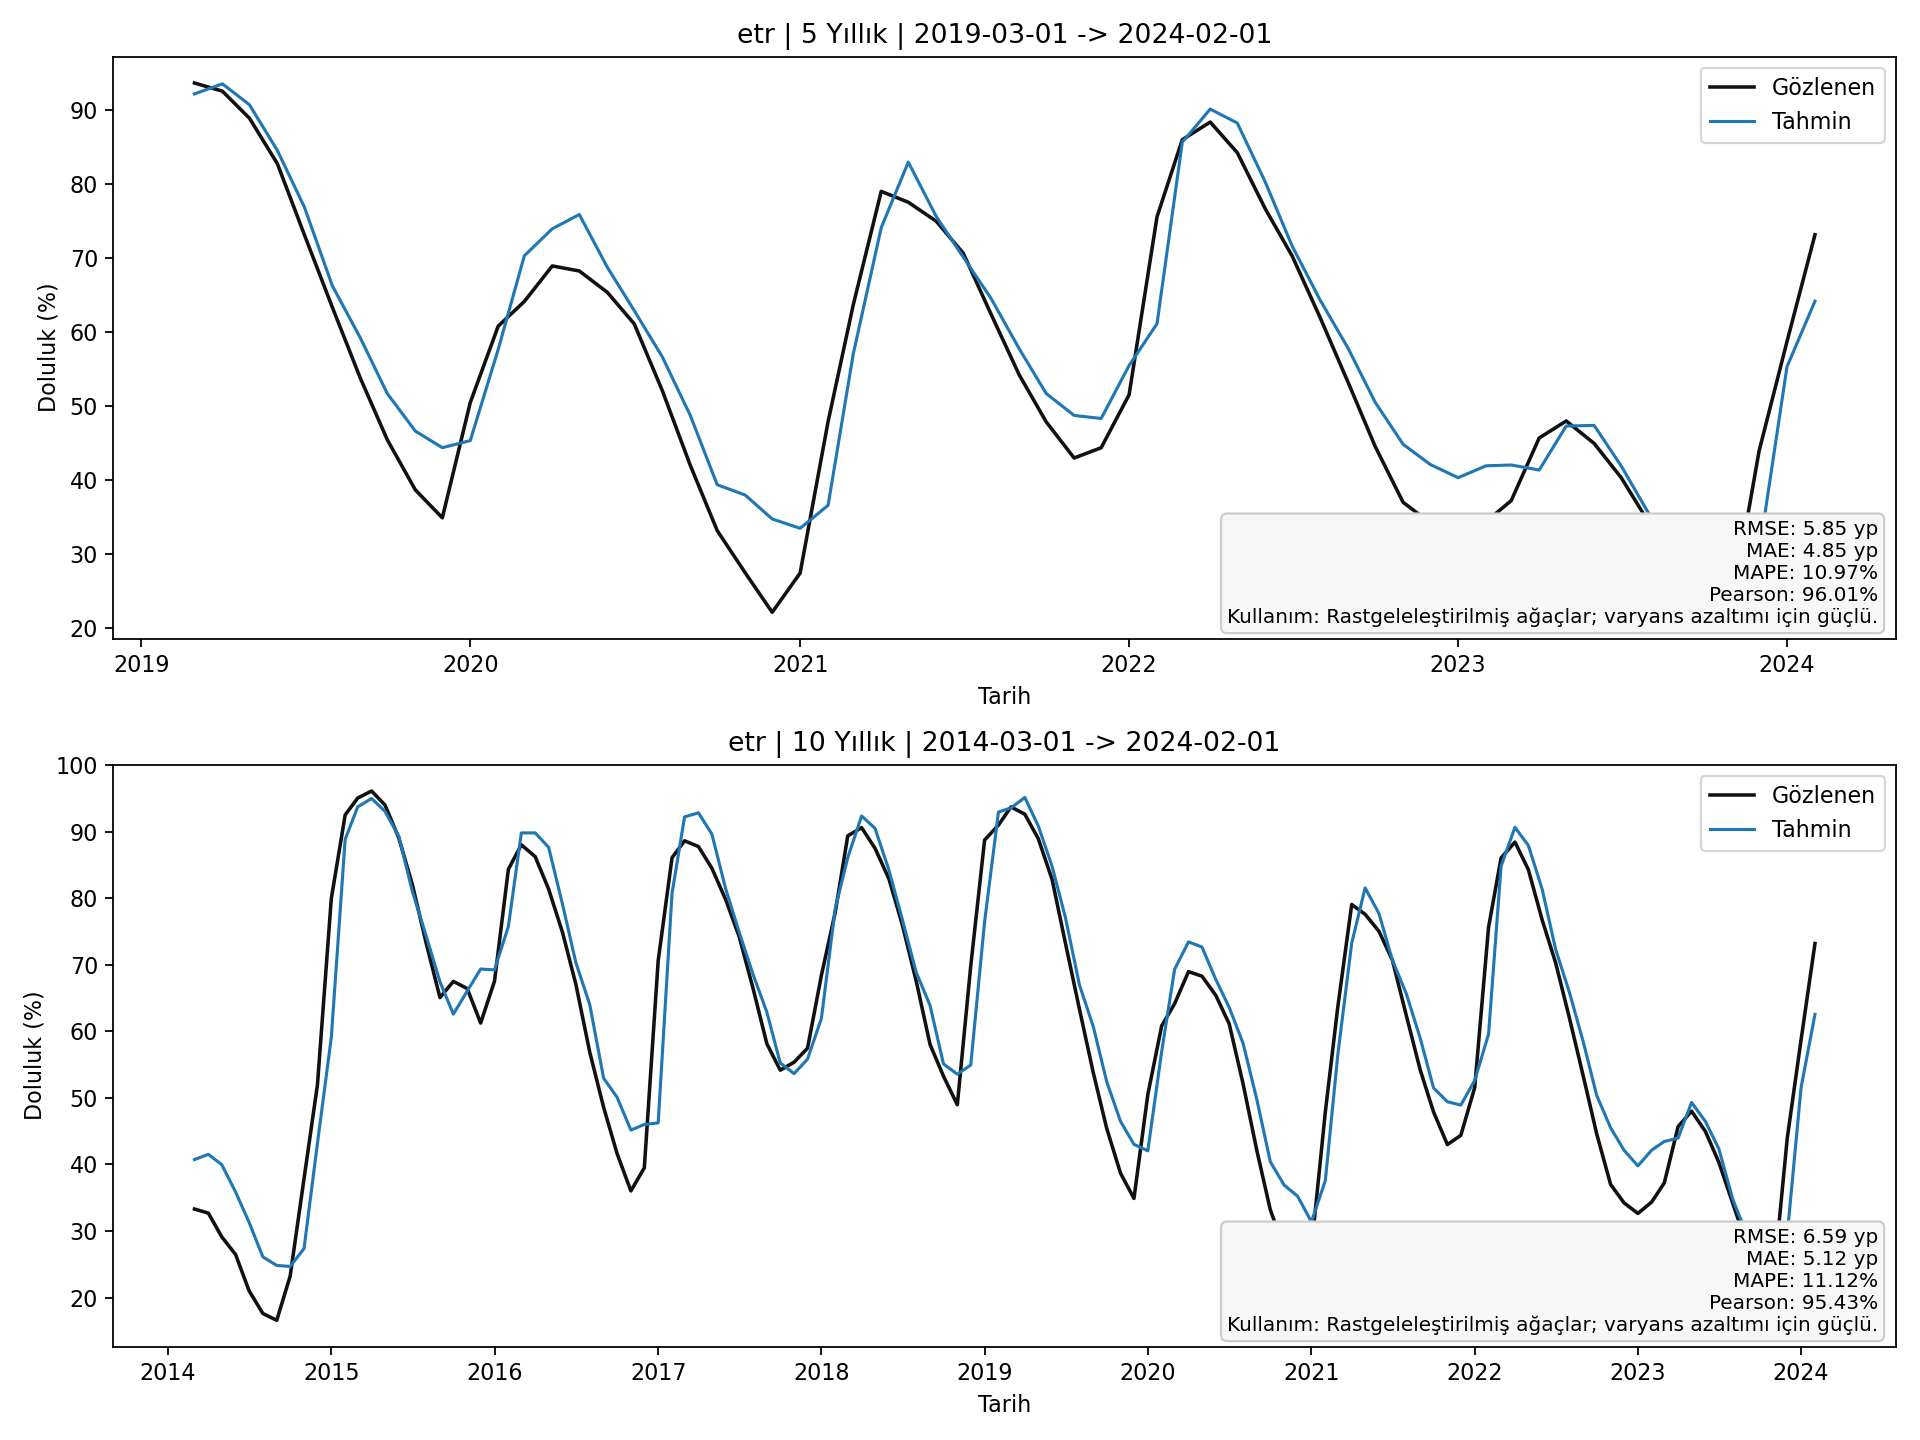
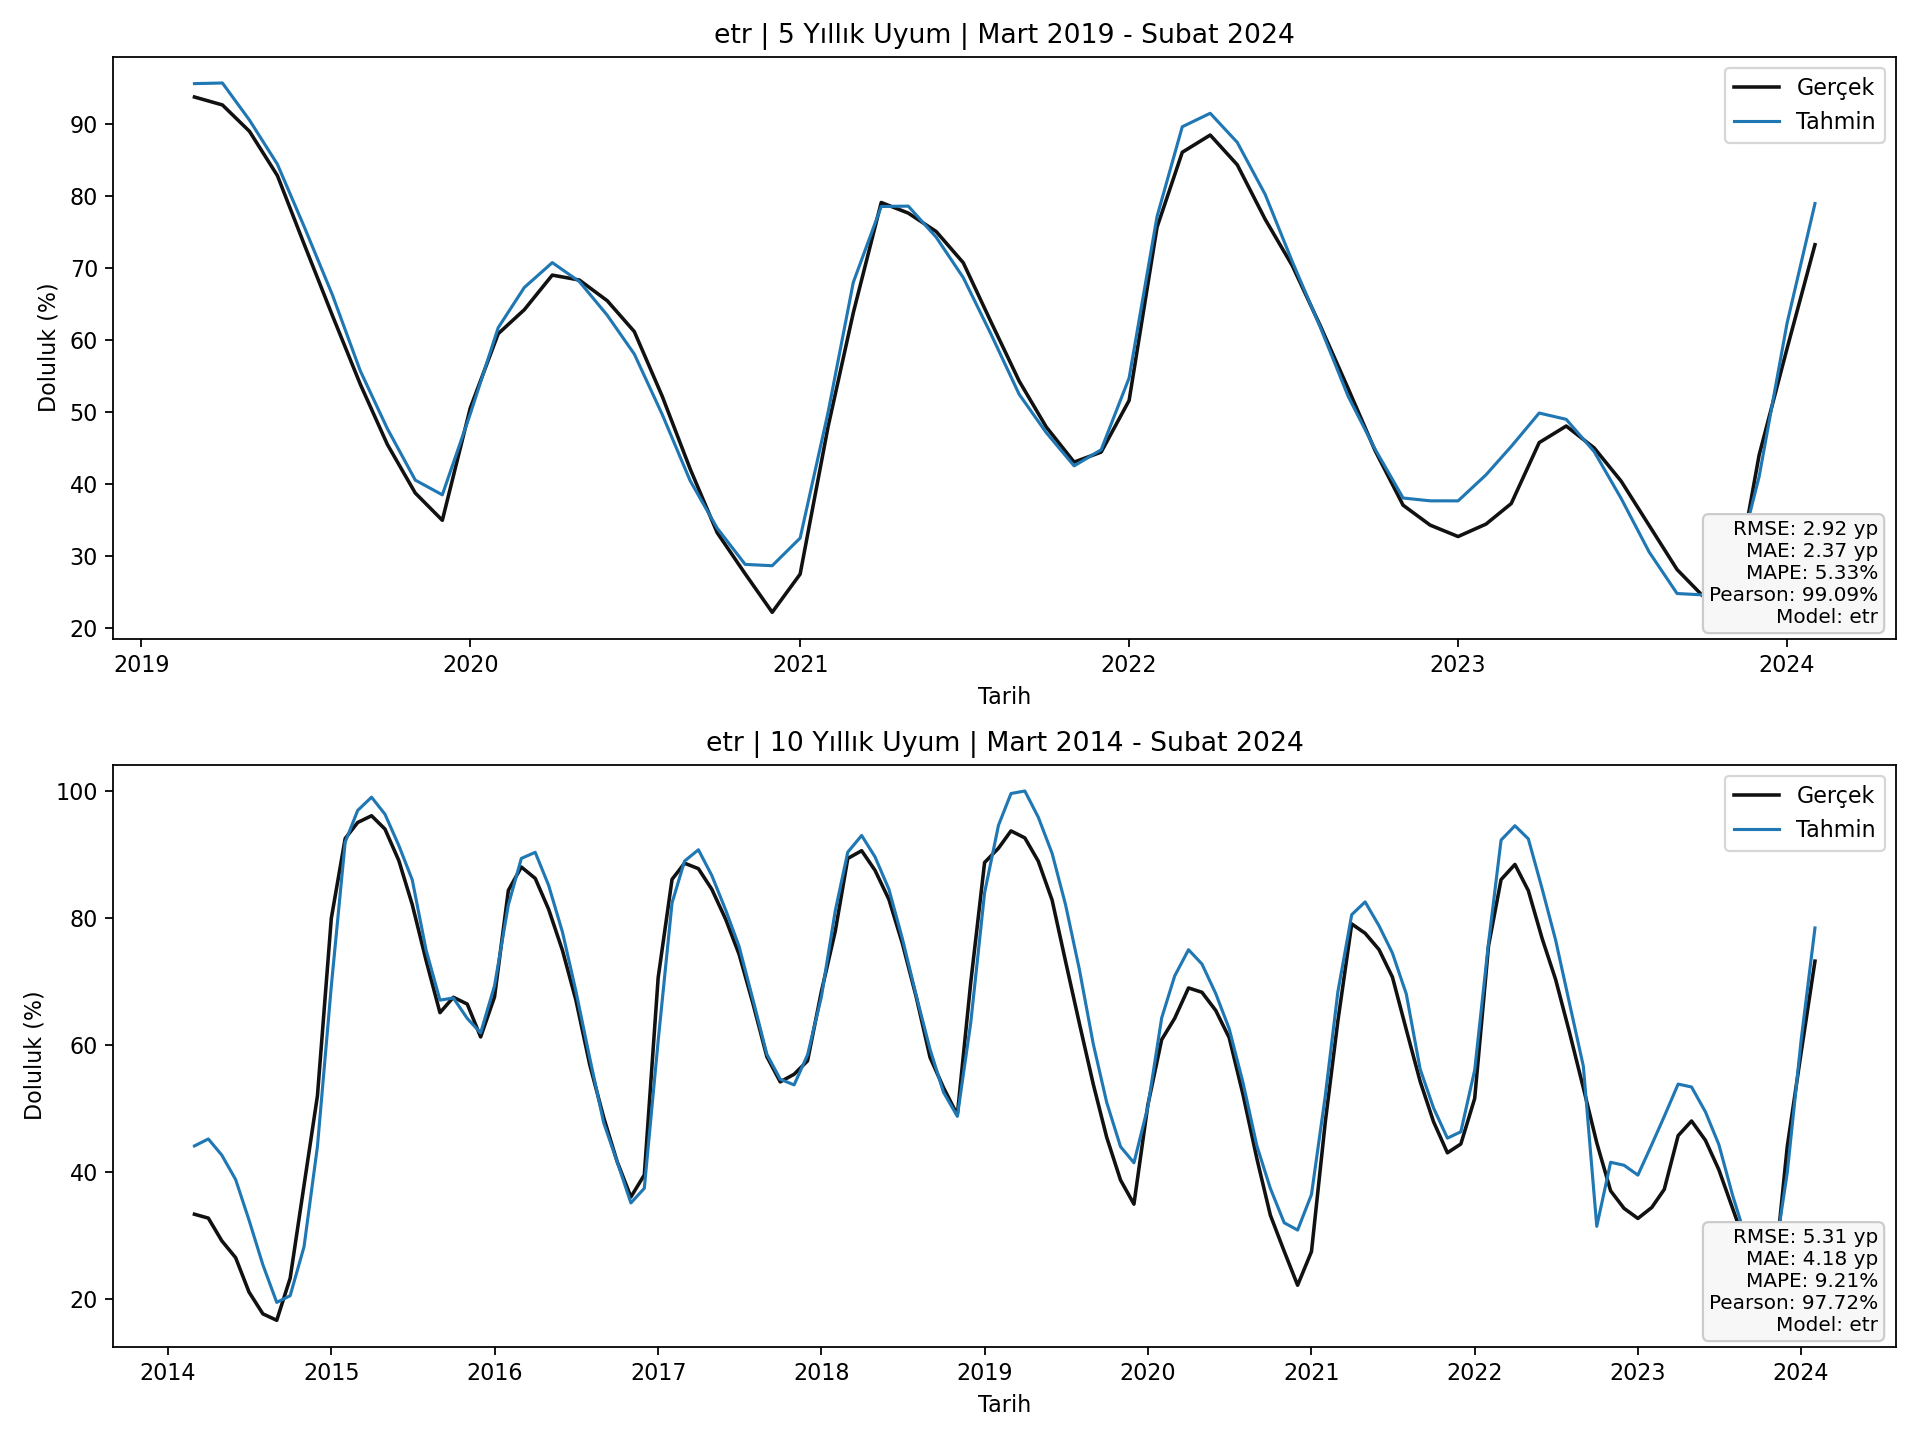
Grafikler: 5Y/10Y karşılaştırmalarını güncelle ve cache sürümünü artır

diff --git a/baraj_web/index.html b/baraj_web/index.html
@@ -474,7 +474,7 @@
             <div class="panel-media">
               <img class="media-wide zoomable" src="assets/img/ridge_projection_2000_2040.png?v=20260326-2" alt="Ridge 2000-2040" />
               <div class="media-row">
-                <img class="media-small zoomable" src="assets/img/ridge_5y_10y.png?v=20260326-2" alt="Ridge 5y/10y karşılaştırma" />
+                <img class="media-small zoomable" src="assets/img/ridge_5y_10y.png?v=20260326-5" alt="Ridge 5y/10y karşılaştırma" />
                 <img class="media-small zoomable" src="assets/img/ridge_projection_zoom_2040.png?v=20260326-2" alt="Ridge 2024-2040" />
               </div>
             </div>
@@ -492,7 +492,7 @@
             <div class="panel-media">
               <img class="media-wide zoomable" src="assets/img/gbr_projection_2000_2040.png?v=20260326-4" alt="GBR 2000-2040" />
               <div class="media-row">
-                <img class="media-small zoomable" src="assets/img/gbr_5y_10y.png?v=20260326-2" alt="GBR 5y/10y karşılaştırma" />
+                <img class="media-small zoomable" src="assets/img/gbr_5y_10y.png?v=20260326-5" alt="GBR 5y/10y karşılaştırma" />
                 <img class="media-small zoomable" src="assets/img/gbr_projection_zoom_2040.png?v=20260326-4" alt="GBR 2024-2040" />
               </div>
             </div>
@@ -510,7 +510,7 @@
             <div class="panel-media">
               <img class="media-wide zoomable" src="assets/img/hgb_projection_2000_2040.png?v=20260326-4" alt="HGB 2000-2040" />
               <div class="media-row">
-                <img class="media-small zoomable" src="assets/img/hgb_5y_10y.png?v=20260326-2" alt="HGB 5y/10y karşılaştırma" />
+                <img class="media-small zoomable" src="assets/img/hgb_5y_10y.png?v=20260326-5" alt="HGB 5y/10y karşılaştırma" />
                 <img class="media-small zoomable" src="assets/img/hgb_projection_zoom_2040.png?v=20260326-4" alt="HGB 2024-2040" />
               </div>
             </div>
@@ -528,7 +528,7 @@
             <div class="panel-media">
               <img class="media-wide zoomable" src="assets/img/rf_projection_2000_2040.png?v=20260326-4" alt="RF 2000-2040" />
               <div class="media-row">
-                <img class="media-small zoomable" src="assets/img/rf_5y_10y.png?v=20260326-2" alt="RF 5y/10y karşılaştırma" />
+                <img class="media-small zoomable" src="assets/img/rf_5y_10y.png?v=20260326-5" alt="RF 5y/10y karşılaştırma" />
                 <img class="media-small zoomable" src="assets/img/rf_projection_zoom_2040.png?v=20260326-4" alt="RF 2024-2040" />
               </div>
             </div>
@@ -546,7 +546,7 @@
             <div class="panel-media">
               <img class="media-wide zoomable" src="assets/img/etr_projection_2000_2040.png?v=20260326-4" alt="ETR 2000-2040" />
               <div class="media-row">
-                <img class="media-small zoomable" src="assets/img/etr_5y_10y.png?v=20260326-2" alt="ETR 5y/10y karşılaştırma" />
+                <img class="media-small zoomable" src="assets/img/etr_5y_10y.png?v=20260326-5" alt="ETR 5y/10y karşılaştırma" />
                 <img class="media-small zoomable" src="assets/img/etr_projection_zoom_2040.png?v=20260326-4" alt="ETR 2024-2040" />
               </div>
             </div>

diff --git a/index.html b/index.html
@@ -474,7 +474,7 @@
             <div class="panel-media">
               <img class="media-wide zoomable" src="assets/img/ridge_projection_2000_2040.png?v=20260326-2" alt="Ridge 2000-2040" />
               <div class="media-row">
-                <img class="media-small zoomable" src="assets/img/ridge_5y_10y.png?v=20260326-2" alt="Ridge 5y/10y karşılaştırma" />
+                <img class="media-small zoomable" src="assets/img/ridge_5y_10y.png?v=20260326-5" alt="Ridge 5y/10y karşılaştırma" />
                 <img class="media-small zoomable" src="assets/img/ridge_projection_zoom_2040.png?v=20260326-2" alt="Ridge 2024-2040" />
               </div>
             </div>
@@ -492,7 +492,7 @@
             <div class="panel-media">
               <img class="media-wide zoomable" src="assets/img/gbr_projection_2000_2040.png?v=20260326-4" alt="GBR 2000-2040" />
               <div class="media-row">
-                <img class="media-small zoomable" src="assets/img/gbr_5y_10y.png?v=20260326-2" alt="GBR 5y/10y karşılaştırma" />
+                <img class="media-small zoomable" src="assets/img/gbr_5y_10y.png?v=20260326-5" alt="GBR 5y/10y karşılaştırma" />
                 <img class="media-small zoomable" src="assets/img/gbr_projection_zoom_2040.png?v=20260326-4" alt="GBR 2024-2040" />
               </div>
             </div>
@@ -510,7 +510,7 @@
             <div class="panel-media">
               <img class="media-wide zoomable" src="assets/img/hgb_projection_2000_2040.png?v=20260326-4" alt="HGB 2000-2040" />
               <div class="media-row">
-                <img class="media-small zoomable" src="assets/img/hgb_5y_10y.png?v=20260326-2" alt="HGB 5y/10y karşılaştırma" />
+                <img class="media-small zoomable" src="assets/img/hgb_5y_10y.png?v=20260326-5" alt="HGB 5y/10y karşılaştırma" />
                 <img class="media-small zoomable" src="assets/img/hgb_projection_zoom_2040.png?v=20260326-4" alt="HGB 2024-2040" />
               </div>
             </div>
@@ -528,7 +528,7 @@
             <div class="panel-media">
               <img class="media-wide zoomable" src="assets/img/rf_projection_2000_2040.png?v=20260326-4" alt="RF 2000-2040" />
               <div class="media-row">
-                <img class="media-small zoomable" src="assets/img/rf_5y_10y.png?v=20260326-2" alt="RF 5y/10y karşılaştırma" />
+                <img class="media-small zoomable" src="assets/img/rf_5y_10y.png?v=20260326-5" alt="RF 5y/10y karşılaştırma" />
                 <img class="media-small zoomable" src="assets/img/rf_projection_zoom_2040.png?v=20260326-4" alt="RF 2024-2040" />
               </div>
             </div>
@@ -546,7 +546,7 @@
             <div class="panel-media">
               <img class="media-wide zoomable" src="assets/img/etr_projection_2000_2040.png?v=20260326-4" alt="ETR 2000-2040" />
               <div class="media-row">
-                <img class="media-small zoomable" src="assets/img/etr_5y_10y.png?v=20260326-2" alt="ETR 5y/10y karşılaştırma" />
+                <img class="media-small zoomable" src="assets/img/etr_5y_10y.png?v=20260326-5" alt="ETR 5y/10y karşılaştırma" />
                 <img class="media-small zoomable" src="assets/img/etr_projection_zoom_2040.png?v=20260326-4" alt="ETR 2024-2040" />
               </div>
             </div>
